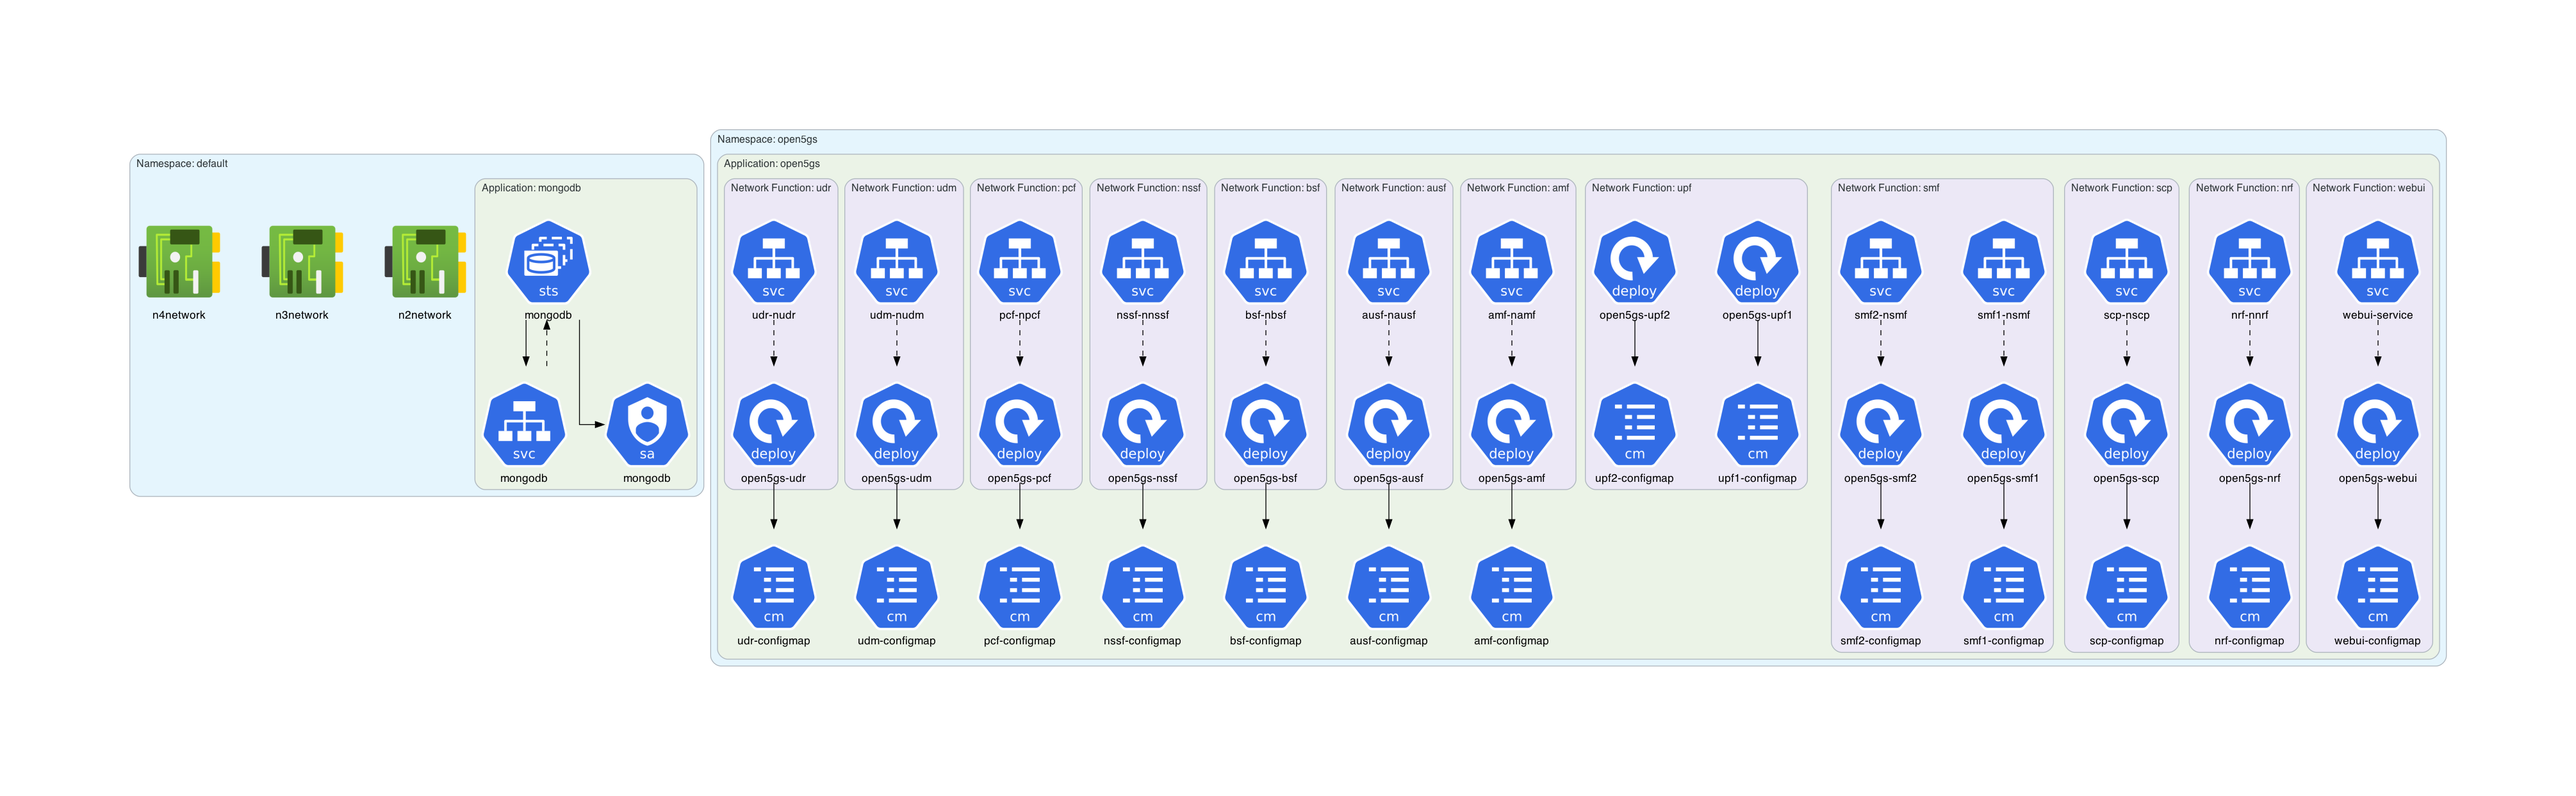
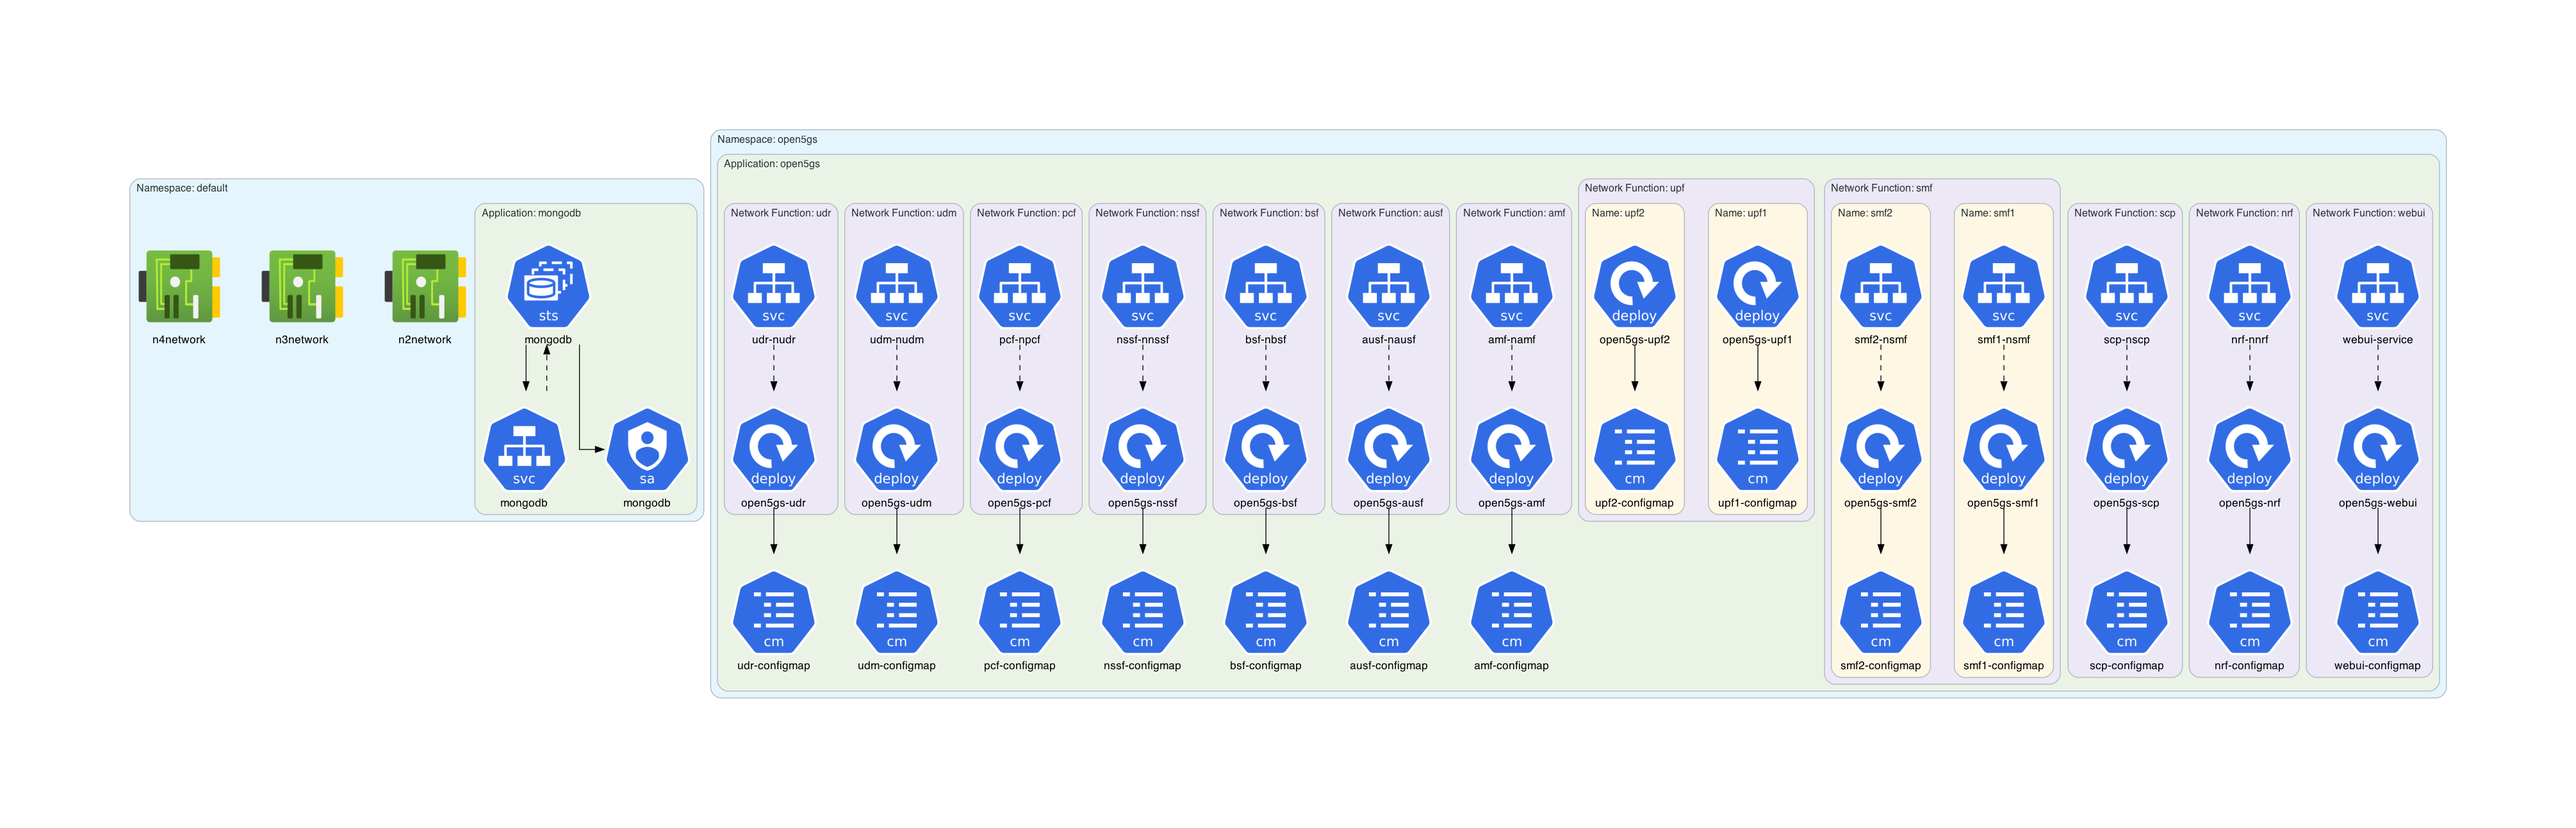
Add 'Name' cluster

diff --git a/README.md b/README.md
@@ -110,7 +110,7 @@ Supported `kind`/`apiVersion` resource types are 32 ones:
 
 **Note**: The mapping between these supported Kubernetes resources and architecture diagrams is defined into [bin/kube-diagrams.yml](bin/kube-diagrams.yaml#L35).
 
-**Note**: The mapping for any Kubernetes custom resources can be also defined into **KubeDiagrams** configuration files as illustrated in [examples/k0s/KubeDiagrams.yml](examples/k0s/KubeDiagrams.yml#L10), [examples/free5gc-k8s/KubeDiagrams.yml](examples/free5gc-k8s/KubeDiagrams.yml#L3), and [examples/open5gs-k8s/KubeDiagrams.yml](examples/open5gs-k8s/KubeDiagrams.yml#L7).
+**Note**: The mapping for any Kubernetes custom resources can be also defined into **KubeDiagrams** configuration files as illustrated in [examples/k0s/KubeDiagrams.yml](examples/k0s/KubeDiagrams.yml#L10), [examples/free5gc-k8s/KubeDiagrams.yml](examples/free5gc-k8s/KubeDiagrams.yml#L3), and [examples/open5gs-k8s/KubeDiagrams.yml](examples/open5gs-k8s/KubeDiagrams.yml#L9).
 
 Currently, unsupported `kind`/`apiGroup` resource types are 27 ones:
 * Binding/
